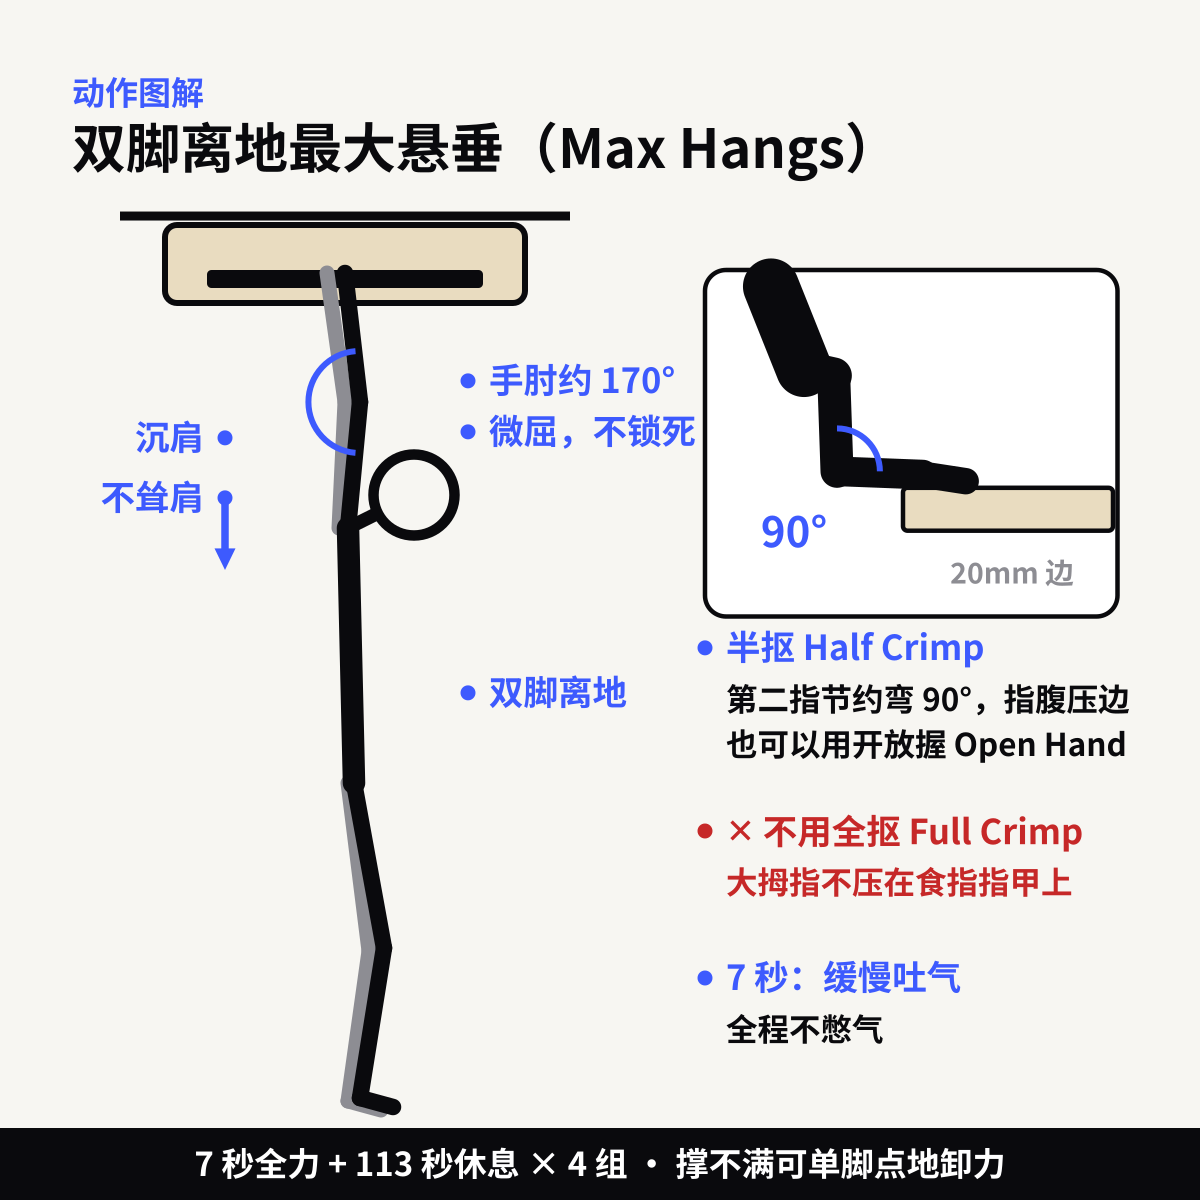
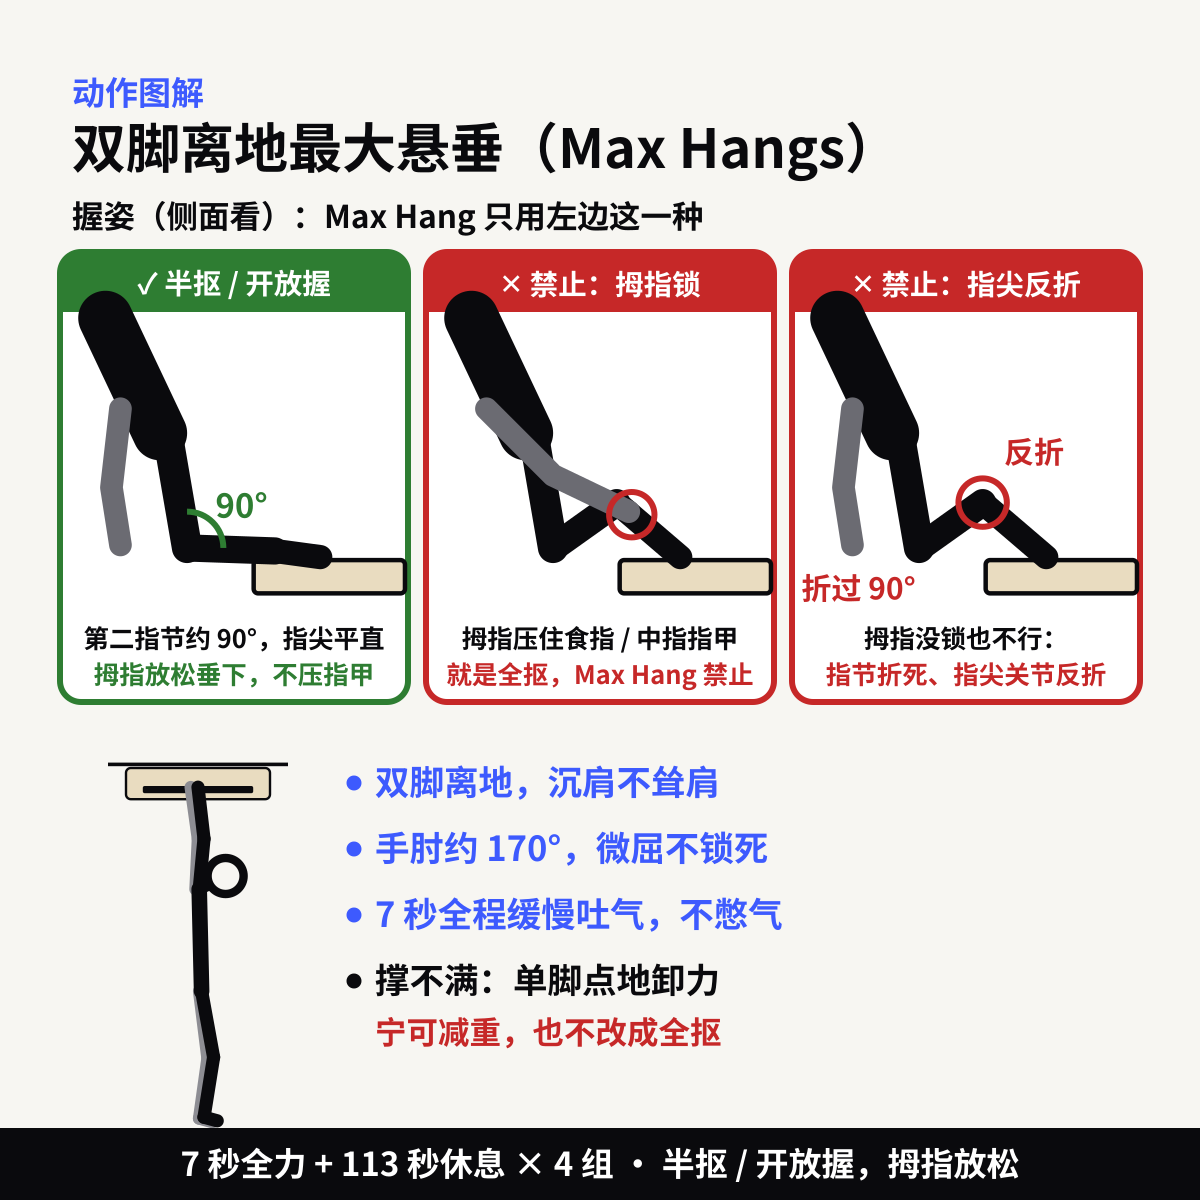
workout: grip-safety rules for Max Hangs / No-Hangs
- Copy: half crimp or open hand only; thumb relaxed, never on a nail;
  no thumb lock (index or index+middle nail) and no hyper-flexed grip
  with DIP bent backward. New safety line, principle and naming FAQ.
- Figures: Max Hangs now shows three side-view grip panels
  (✓ half crimp / ✕ thumb lock / ✕ DIP hyperextension) plus body cues;
  No-Hangs adds the ✓ half-crimp panel with relaxed thumb.

Changed region(s): [[0.0308, 0.1542, 0.9558, 0.9867]]

diff --git a/scripts/workout-figures.py b/scripts/workout-figures.py
@@ -64,7 +64,7 @@ def arc(c, r, a0, a1, label=None, color=ACCENT, lr=None, size=24):
     return out
 
 
-def figure(j, color=INK, far=FAR, dash=None, w=11):
+def figure(j, color=INK, far=FAR, dash=None, w=11, head_w=7):
     """j: 关节坐标。far_* 是远侧肢体（灰色），其余是近侧（黑色）。"""
     out = []
     for a, b in (("far_shoulder", "far_elbow"), ("far_elbow", "far_hand"), ("far_hip", "far_knee"), ("far_knee", "far_ankle"), ("far_ankle", "far_toe")):
@@ -79,7 +79,7 @@ def figure(j, color=INK, far=FAR, dash=None, w=11):
     dist = math.hypot(hx - sx, hy - sy)
     if dist > r:
         out.append(line([(sx, sy), (hx - (hx - sx) * r / dist, hy - (hy - sy) * r / dist)], color, w - 2, dash))
-    out.append(circle(j["head"], r, color, w=7, dash=dash))
+    out.append(circle(j["head"], r, color, w=head_w, dash=dash))
     return "".join(out)
 
 
@@ -123,20 +123,45 @@ def dumbbell(c, vertical=True, size=1.0):
             + rect(x + L / 2, y - pw / 2, ph, pw, fill=INK, sw=0, r=4))
 
 
-def finger_closeup(ox, oy, s=1.0, kind="half"):
-    """手指特写：半抠 90°（指尖垫在 20mm 边上）"""
+def grip_panel(ox, oy, w, h, kind="half"):
+    """握姿侧面图（拇指一侧看过去，指力板边在右下）。
+    half = ✓ 半抠：第二指节约 90°、指尖关节平直、拇指放松垂下
+    lock = ✕ 拇指锁：拇指压住食指（或食指+中指）指甲，也就是全抠
+    hyper = ✕ 死折：拇指没锁，但第二指节折过 90°、指尖关节反折"""
+    ok = kind == "half"
+    col = "#2e7d32" if ok else DANGER
+    head = {"half": "✓ 半抠 / 开放握", "lock": "✕ 禁止：拇指锁", "hyper": "✕ 禁止：指尖反折"}[kind]
+    cap = {"half": ("第二指节约 90°，指尖平直", "拇指放松垂下，不压指甲"),
+           "lock": ("拇指压住食指 / 中指指甲", "就是全抠，Max Hang 禁止"),
+           "hyper": ("拇指没锁也不行：", "指节折死、指尖关节反折")}[kind]
+    s = min(w / 230, (h - 96) / 190)
+    dx = ox + (w - 230 * s) / 2
     def P(x, y):
-        return (ox + x * s, oy + y * s)
-    out = rect(*P(0, 0), 250 * s, 210 * s, fill="#fff", stroke=INK, sw=3, r=14)
-    out += rect(*P(120, 132), 130 * s - 3, 26 * s, fill="#e9dcc0", stroke=INK, sw=3, r=3)  # 20mm 边
-    out += text(*P(186, 190), "20mm 边", size=int(18 * s), color=FAR, weight=600, anchor="middle")
-    out += line([P(40, 10), P(60, 60)], INK, 34 * s)            # 手掌/手背
-    out += line([P(60, 60), P(78, 64)], INK, 22 * s)
-    out += line([P(78, 64), P(80, 122)], INK, 20 * s)          # 近节指骨
-    out += line([P(80, 122), P(132, 124)], INK, 18 * s)        # 中节
-    out += line([P(132, 124), P(158, 128)], INK, 16 * s)       # 远节（指腹压边）
-    out += arc(P(80, 122), 26 * s, 0, 90, None)
-    out += text(*P(54, 168), "90°", size=int(26 * s), color=ACCENT, weight=900, anchor="middle")
+        return (dx + x * s, oy + 44 + y * s)
+    out = rect(ox, oy, w, h, fill="#fff", stroke=col, sw=4, r=14)
+    out += f'<path d="M{ox},{oy + 40} V{oy + 14} Q{ox},{oy} {ox + 14},{oy} H{ox + w - 14} Q{ox + w},{oy} {ox + w},{oy + 14} V{oy + 40} Z" fill="{col}"/>'
+    out += text(ox + w / 2, oy + 28, head, size=19, color="#fff", weight=800, anchor="middle")
+    out += rect(*P(128, 160), 100 * s, 22 * s, fill="#e9dcc0", stroke=INK, sw=3, r=3)  # 20mm 边
+    out += line([P(30, 0), P(66, 76)], INK, 36 * s)                                       # 手掌
+    if ok:
+        mcp, pip, dip, tip = (72, 82), (84, 152), (142, 154), (172, 158)
+    else:
+        mcp, pip, dip, tip = (72, 82), (84, 152), (126, 122), (168, 158)
+    out += line([P(*mcp), P(*pip)], INK, 20 * s) + line([P(*pip), P(*dip)], INK, 18 * s) + line([P(*dip), P(*tip)], INK, 16 * s)
+    if kind == "lock":
+        out += line([P(40, 60), P(84, 104), P(134, 128)], "#6b6b72", 15 * s)            # 拇指压在指甲上
+        out += circle(P(136, 130), 15 * s, DANGER, fill="none", w=4)
+    else:
+        out += line([P(40, 60), P(34, 112), P(40, 150)], "#6b6b72", 15 * s)             # 拇指放松垂下
+    if ok:
+        out += arc(P(*pip), 24 * s, 0, 90, None, color="#2e7d32")
+        out += text(*P(120, 132), "90°", size=round(22 * s), color="#2e7d32", weight=900, anchor="middle")
+    if kind == "hyper":
+        out += circle(P(*dip), 16 * s, DANGER, fill="none", w=4)
+        out += text(*P(160, 96), "反折", size=round(20 * s), color=DANGER, weight=900, anchor="middle")
+        out += text(*P(44, 186), "折过 90°", size=round(20 * s), color=DANGER, weight=900, anchor="middle")
+    out += text(ox + w / 2, oy + h - 36, cap[0], size=17, weight=700, anchor="middle")
+    out += text(ox + w / 2, oy + h - 12, cap[1], size=17, color=col, weight=700, anchor="middle")
     return out
 
 
@@ -165,25 +190,19 @@ def scap():
 
 # 2. Max Hangs ------------------------------------------------------------------
 def maxhang():
-    b = hangboard(110, 150)
+    b = text(48, 152, "握姿（侧面看）：Max Hang 只用左边这一种", size=21, weight=800)
+    for i, k in enumerate(("half", "lock", "hyper")):
+        b += grip_panel(40 + i * 244, 168, 232, 300, k)
     j = dict(hand=(230, 182), far_hand=(218, 182), elbow=(240, 268), far_elbow=(230, 268), shoulder=(232, 352), far_shoulder=(226, 352),
              head=(276, 330), hip=(236, 522), far_hip=(232, 522), knee=(256, 632), far_knee=(246, 634), ankle=(240, 732), far_ankle=(232, 734),
-             toe=(262, 738), far_toe=(254, 740))
-    b += figure(j) + floor(760, 40, 400)
-    b += arc((240, 268), 34, 95, 265, None) + note(326, 262, "手肘约 170°")
-    b += note(326, 296, "微屈，不锁死")
-    b += arrow((150, 330), (150, 380)) + note(136, 300, "沉肩", anchor="end")
-    b += note(136, 340, "不耸肩", anchor="end")
-    b += note(326, 470, "双脚离地")
-    b += finger_closeup(470, 180, 1.1)
-    b += note(484, 440, "半抠 Half Crimp")
-    b += text(484, 474, "第二指节约弯 90°，指腹压边", size=21, color=INK, weight=600)
-    b += text(484, 504, "也可以用开放握 Open Hand", size=21, color=INK, weight=600)
-    b += note(484, 562, "✕ 不用全抠 Full Crimp", color=DANGER)
-    b += text(484, 596, "大拇指不压在食指指甲上", size=21, color=DANGER, weight=600)
-    b += note(484, 660, "7 秒：缓慢吐气")
-    b += text(484, 694, "全程不憋气", size=21, color=INK, weight=600)
-    return frame("双脚离地最大悬垂（Max Hangs）", b, "7 秒全力 + 113 秒休息 × 4 组 · 撑不满可单脚点地卸力")
+             toe=(262, 738), far_toe=(254, 740), r=30)
+    b += f'<g transform="translate(40 452) scale(0.4)">{hangboard(110, 150)}{figure(j, w=22, head_w=14)}</g>'
+    b += note(250, 530, "双脚离地，沉肩不耸肩")
+    b += note(250, 574, "手肘约 170°，微屈不锁死")
+    b += note(250, 618, "7 秒全程缓慢吐气，不憋气")
+    b += note(250, 662, "撑不满：单脚点地卸力", color=INK)
+    b += text(250, 696, "宁可减重，也不改成全抠", size=21, color=DANGER, weight=700)
+    return frame("双脚离地最大悬垂（Max Hangs）", b, "7 秒全力 + 113 秒休息 × 4 组 · 半抠 / 开放握，拇指放松")
 
 
 # 3. 高脚杯全蹲 -----------------------------------------------------------------
@@ -316,21 +335,20 @@ def cossack():
 
 # 8. No-Hangs -------------------------------------------------------------------
 def nohang():
-    b = hangboard(280, 150)
-    j = dict(hand=(400, 182), far_hand=(388, 182), elbow=(394, 268), far_elbow=(386, 268), shoulder=(386, 352), far_shoulder=(380, 352),
-             head=(430, 330), hip=(372, 520), far_hip=(368, 520), knee=(432, 612), far_knee=(424, 616), ankle=(398, 712), far_ankle=(390, 714),
-             toe=(442, 718), far_toe=(434, 718))
-    b += figure(j) + floor(722)
-    b += arrow((300, 470), (300, 560)) + note(286, 450, "臀部往下坐", anchor="end")
-    b += note(286, 490, "把部分体重", anchor="end") + note(286, 530, "交给手指", anchor="end")
-    b += note(470, 700, "双脚始终踩地")
-    b += note(520, 270, "手指拉力约 30–35 kg")
-    b += text(520, 304, "约体重的 40–50%", size=21, color=INK, weight=600)
-    b += note(520, 380, "半抠或开放握")
-    b += text(520, 414, "20 mm 四指洞", size=21, color=INK, weight=600)
-    b += note(520, 490, "前臂温和充血")
-    b += text(520, 524, "不酸、不累就对了", size=21, color=INK, weight=600)
-    return frame("双脚踩地减重悬垂（No-Hangs）", b, "拉紧 10 秒 + 放松 20 秒 × 6 · 不离地死挂")
+    b = hangboard(60, 150)
+    j = dict(hand=(180, 182), far_hand=(168, 182), elbow=(174, 268), far_elbow=(166, 268), shoulder=(166, 352), far_shoulder=(160, 352),
+             head=(210, 330), hip=(152, 520), far_hip=(148, 520), knee=(212, 612), far_knee=(204, 616), ankle=(178, 712), far_ankle=(170, 714),
+             toe=(222, 718), far_toe=(214, 718))
+    b += figure(j) + floor(722, 40, 440)
+    b += arrow((120, 470), (120, 560))
+    b += note(268, 452, "臀部往下坐") + note(268, 492, "部分体重交给手指")
+    b += note(250, 700, "双脚始终踩地")
+    b += grip_panel(470, 150, 290, 300, "half")
+    b += note(484, 500, "手指拉力约 30–35 kg")
+    b += text(484, 534, "约体重的 40–50%", size=21, color=INK, weight=600)
+    b += note(484, 590, "前臂温和充血")
+    b += text(484, 624, "不酸、不累就对了", size=21, color=INK, weight=600)
+    return frame("双脚踩地减重悬垂（No-Hangs）", b, "拉紧 10 秒 + 放松 20 秒 × 6 · 半抠 / 开放握，拇指放松")
 
 
 # 9. 攀岩热身 -------------------------------------------------------------------
